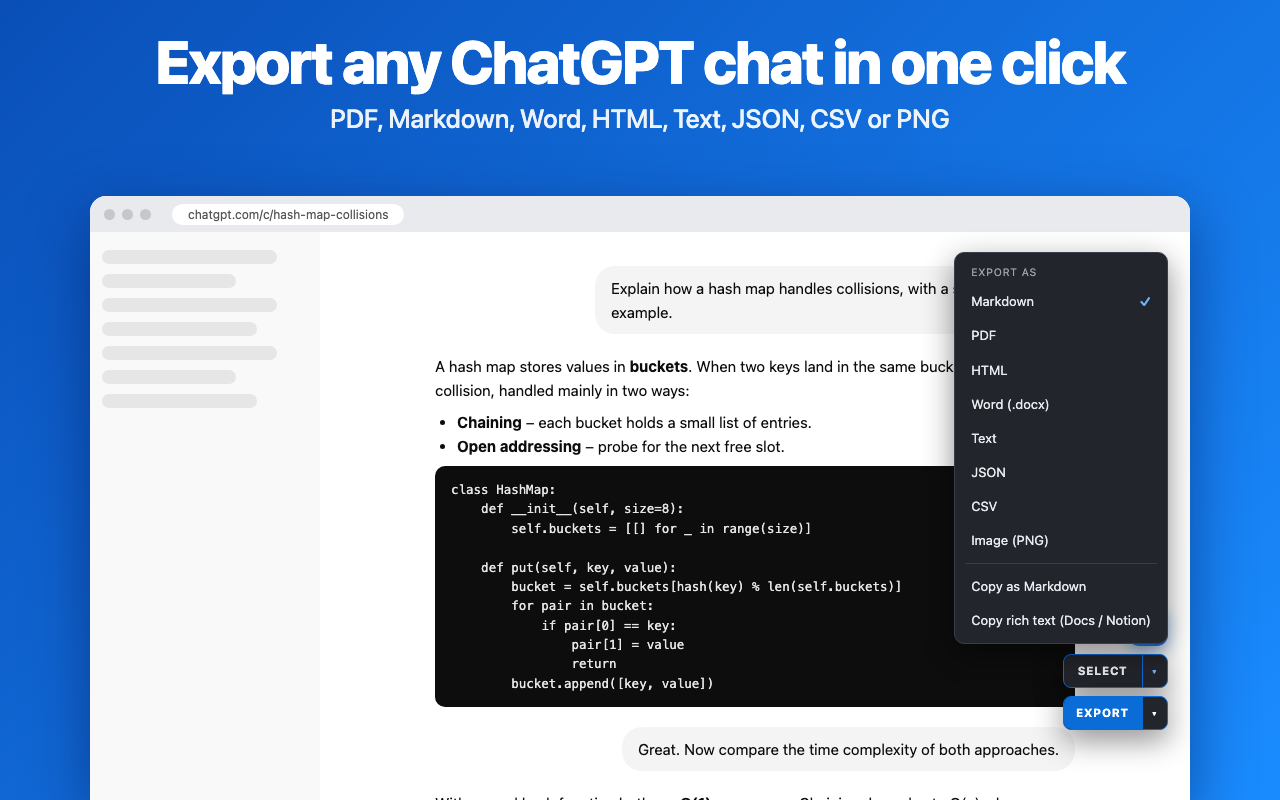
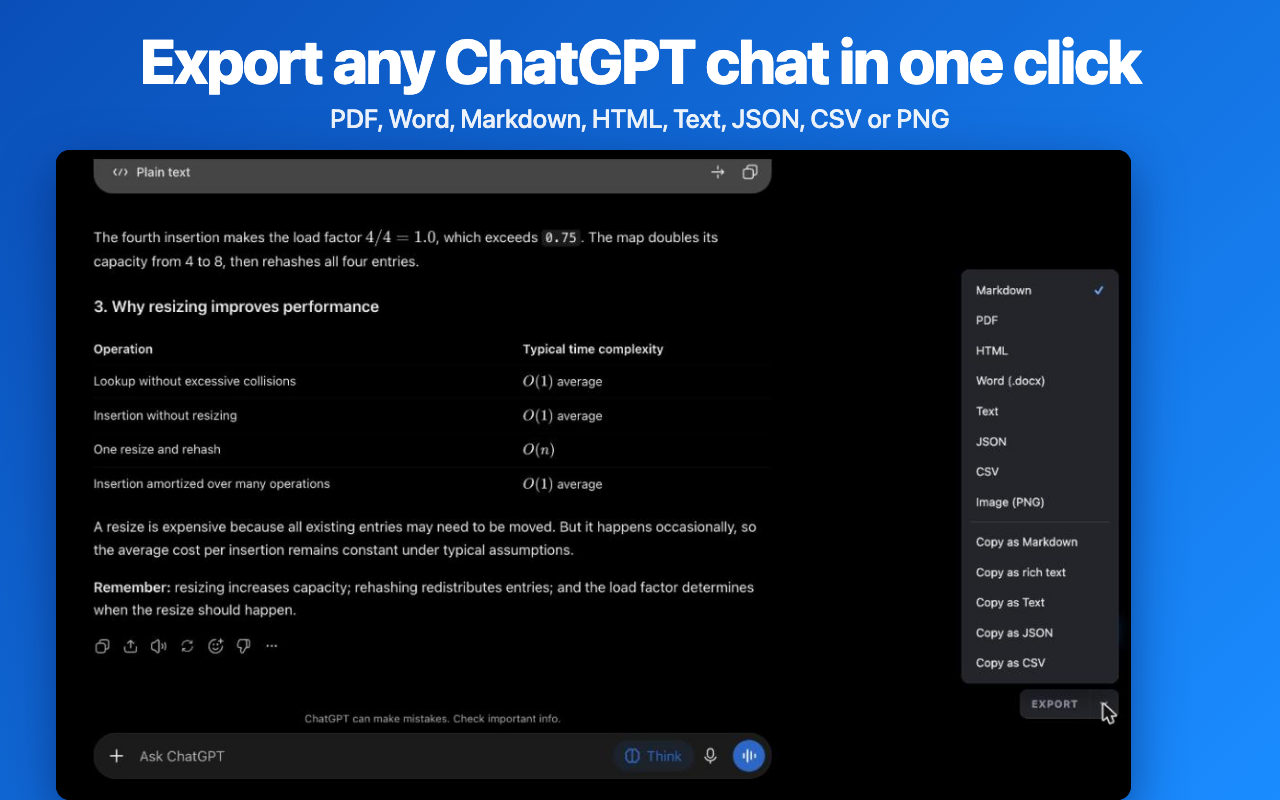
Real-capture store screenshots; fix ChatGPT code blocks dropped by client_defined_widget references; strip layout tags

diff --git a/store-assets/compose.js b/store-assets/compose.js
@@ -1,0 +1,46 @@
+// Composes the Web Store screenshots from REAL captures of the extension running on chatgpt.com (store-assets/raw/*.jpg, not committed).
+// Run: node store-assets/compose.js   (needs Google Chrome)
+const fs = require('fs'), cp = require('child_process');
+const dir = __dirname, out = dir + '/out', tmp = dir + '/.tmp';
+fs.mkdirSync(out, { recursive: true }); fs.mkdirSync(tmp, { recursive: true });
+const raw = (n) => 'file://' + dir + '/raw/' + n;
+const GRAD = 'linear-gradient(135deg,#0a4fb8 0%,#1a8cff 100%)';
+const page = (title, sub, body) => `<!doctype html><meta charset=utf-8><style>
+*{margin:0;padding:0;box-sizing:border-box}html,body{width:1280px;height:800px;overflow:hidden}
+body{background:${GRAD};color:#fff;font-family:-apple-system,BlinkMacSystemFont,"Segoe UI",Roboto,Helvetica,Arial,sans-serif;position:relative}
+.head{position:absolute;left:0;right:0;top:28px;text-align:center}.head h1{font-size:62px;font-weight:800;letter-spacing:-.03em;line-height:1.05}.head p{font-size:26px;font-weight:500;opacity:.93;margin-top:10px}
+.shot{position:absolute;overflow:hidden;border-radius:14px;box-shadow:0 18px 50px rgba(0,25,90,.55);background:#000}
+.shot img{position:absolute;display:block}
+.pill{position:absolute;background:#fff;color:#0a4fb8;font-weight:800;font-size:24px;padding:12px 22px;border-radius:99px;box-shadow:0 8px 24px rgba(0,25,90,.35)}
+ul.f{position:absolute;list-style:none;font-size:31px;font-weight:700;line-height:1.3}ul.f li{margin:15px 0}ul.f b{color:#bfe0ff}
+</style><div class=head><h1>${title}</h1><p>${sub}</p></div>${body}`;
+// crop(img, x,y,w,h, left,top, scale)
+const crop = (n, x, y, w, h, l, t, s = 1, extra = '') => `<div class=shot style="left:${l}px;top:${t}px;width:${w * s}px;height:${h * s}px;${extra}"><img src="${raw(n)}" style="width:${1568 * s}px;left:${-x * s}px;top:${-y * s}px"></div>`;
+
+const shots = {
+  '1-export-menu': page('Export any ChatGPT chat in one click', 'PDF, Word, Markdown, HTML, Text, JSON, CSV or PNG',
+    crop('menu.jpg', 400, 40, 1168, 706, 56, 150, 0.92)),
+  '2-select-messages': page('Pick exactly the messages you need', 'Questions only, answers only, or tick your own',
+    crop('select.jpg', 400, 0, 1168, 746, 56, 150, 0.87)),
+  '3-pdf-settings': page('Customise your PDF', 'Page size, margins, theme, fonts, page numbers and more',
+    `<ul class=f style="left:90px;top:230px;width:620px"><li><b>✓</b> A4, Letter or Legal</li><li><b>✓</b> Light or dark theme</li><li><b>✓</b> Margins and font size</li><li><b>✓</b> Page numbers</li><li><b>✓</b> Table of contents</li><li><b>✓</b> Page break per prompt</li></ul>`
+    + crop('settings-pdf.jpg', 1212, 66, 356, 676, 760, 150, 0.96)),
+  '4-formats': page('8 formats, nothing left behind', 'Code, tables, math, images and sources are kept',
+    crop('menu.jpg', 1384, 170, 164, 450, 800, 165, 1.35)
+    + `<ul class=f style="left:90px;top:210px;width:620px;font-size:34px"><li><b>PDF</b> · <b>Word</b> · <b>Markdown</b></li><li><b>HTML</b> · <b>Text</b> · <b>PNG</b></li><li><b>JSON</b> · <b>CSV</b></li><li style="font-size:26px;font-weight:600;opacity:.92;margin-top:30px">Or copy as rich text straight into Google Docs, Word or Notion</li></ul>`)
+};
+const privacy = page('Private by design', 'Your conversations never leave your browser',
+  `<div style="position:absolute;left:70px;right:70px;top:200px;display:flex;gap:28px">${[['🔒', 'Runs locally', 'Chats are converted inside your browser. Nothing is sent to our servers.'], ['🚫', 'No tracking', 'No ads, no analytics and no remote code.'], ['⚡', 'Instant', 'Uses your logged-in session, so exports are exact and fast.']].map(c => `<div style="flex:1;background:#fff;color:#1f2330;border-radius:20px;padding:40px 30px;box-shadow:0 12px 36px rgba(0,25,90,.35)"><div style="font-size:54px">${c[0]}</div><div style="font-weight:800;font-size:30px;margin:14px 0 10px">${c[1]}</div><div style="font-size:21px;color:#4b5568;line-height:1.45">${c[2]}</div></div>`).join('')}</div>`);
+shots['6-private'] = privacy;
+if (fs.existsSync(dir + '/raw/export.png')) {
+  shots['5-export-result'] = page('Clean, ready-to-share documents', 'Code, tables and math come out perfectly formatted',
+    `<div class=shot style="left:290px;top:150px;width:700px;height:650px;border-radius:14px 14px 0 0;background:#fff"><img src="${raw('export.png')}" style="width:700px;left:0;top:0"></div>`);
+}
+const CHROME = '/Applications/Google Chrome.app/Contents/MacOS/Google Chrome';
+for (const [n, html] of Object.entries(shots)) {
+  const f = `${tmp}/${n}.html`; fs.writeFileSync(f, html);
+  const png = `${out}/${n}.png`;
+  cp.execFileSync(CHROME, ['--headless=new', '--disable-gpu', '--hide-scrollbars', '--window-size=1280,800', '--force-device-scale-factor=1', '--allow-file-access-from-files', `--screenshot=${png}`, 'file://' + f], { stdio: 'ignore' });
+  cp.execFileSync('python3', ['-c', `from PIL import Image;im=Image.open("${png}").convert("RGB").crop((0,0,1280,800));im.save("${png}")`]);
+  console.log(n);
+}

diff --git a/src/adapters/chatgpt.js b/src/adapters/chatgpt.js
@@ -10,6 +10,13 @@
   const PUA_CITE = /[\s\S]*?/g;
   const PUA_ANY = /[-]/g;
 
+  // ChatGPT sometimes emits its own layout markup (<box>, <row>, <AsyncImage …/>) inside answers. Drop it, but never inside code fences.
+  const LAYOUT_TAG = /<\/?(?:box|row|column|stack|grid|flex|divider|AsyncImage)\b[^>]*>/gi;
+  function stripLayoutTags(text) {
+    if (!/<\/?(?:box|row|column|stack|grid|flex|divider|AsyncImage)\b/i.test(text)) return text;
+    return text.split(/(^```[\s\S]*?^```[^\n]*$)/m).map((chunk, i) => (i % 2 ? chunk : chunk.replace(LAYOUT_TAG, ''))).join('').replace(/\n{3,}/g, '\n\n');
+  }
+
   function applyReferences(text, meta, sources) {
     if (!text) return '';
     const addSource = (s) => {
@@ -26,6 +33,8 @@
     for (const ref of refs) {
       const matched = ref.matched_text;
       if (!matched) continue;
+      // Widgets (code blocks, tables, charts…) point at text that must stay in the message.
+      if (ref.type === 'client_defined_widget') continue;
       let replacement = '';
       const items = []
         .concat(ref.items || [])
@@ -60,7 +69,7 @@
       }
     }
     text = text.replace(/【[^】]*】/g, '').replace(PUA_CITE, '').replace(PUA_ANY, '');
-    return text;
+    return stripLayoutTags(text);
   }
 
   function parseConversation(data, settings) {

diff --git a/store-assets/build.js b/store-assets/build.js
@@ -95,7 +95,8 @@ img.i{width:${big ? 190 : 96}px;border-radius:${big ? 42 : 22}px;box-shadow:0 10
 .chips{display:flex;gap:8px;flex-wrap:wrap;margin-top:18px}.chips span{background:rgba(255,255,255,.18);padding:6px 14px;border-radius:99px;font-weight:700;font-size:17px}</style>
 ${big ? `<img class=i src="${ICON}"><div><h1>ChatGPT Exporter</h1><p>Save any ChatGPT chat as PDF, Markdown, Word &amp; more</p><div class=chips>${['PDF', 'Markdown', 'Word', 'HTML', 'JSON', 'CSV', 'PNG'].map(x => `<span>${x}</span>`).join('')}</div></div>` : `<img class=i src="${ICON}"><div><h1>ChatGPT Exporter</h1><p>Export chats to PDF, Markdown, Word &amp; more</p></div>`}`;
 
-const jobs = [...Object.entries(shots).map(([n, h]) => [n, h, 1280, 800]), ['promo-small-440x280', tile(440, 280, false), 440, 280], ['promo-marquee-1400x560', tile(1400, 560, true), 1400, 560]];
+// Screenshots now come from real captures: see compose.js. This file only builds the promo tiles.
+const jobs = [['promo-small-440x280', tile(440, 280, false), 440, 280], ['promo-marquee-1400x560', tile(1400, 560, true), 1400, 560]];
 const CHROME = '/Applications/Google Chrome.app/Contents/MacOS/Google Chrome';
 for (const [n, html, w, h] of jobs) {
   const f = `${tmp}/${n}.html`; fs.writeFileSync(f, html);

diff --git a/STORE_LISTING.md b/STORE_LISTING.md
@@ -76,7 +76,7 @@ ChatGPT Exporter is an independent tool, not affiliated with, endorsed by or spo
 ```
 
 ## Images to upload (store-assets/out/)
-Screenshots in this order (1280x800): 1-export-menu, 2-select-messages, 6-features, 3-formats, 4-pdf-themes (5-private optional). Small promo 440x280 and marquee 1400x560 included. Best upgrade: replace mock-ups with real captures of the extension on a live chat.
+Screenshots (1280x800, real captures of the extension running on chatgpt.com, composed by `node store-assets/compose.js`), in this order: 1-export-menu, 2-select-messages, 5-export-result, 3-pdf-settings, 4-formats, 6-private. Promo tiles: promo-small-440x280, promo-marquee-1400x560 (`node store-assets/build.js`).
 
 ## Permission justifications (Privacy practices tab)
 - **Host access chatgpt.com, chat.openai.com:** Adds the Select/Export buttons to ChatGPT pages and reads the conversation the user chooses to export.
